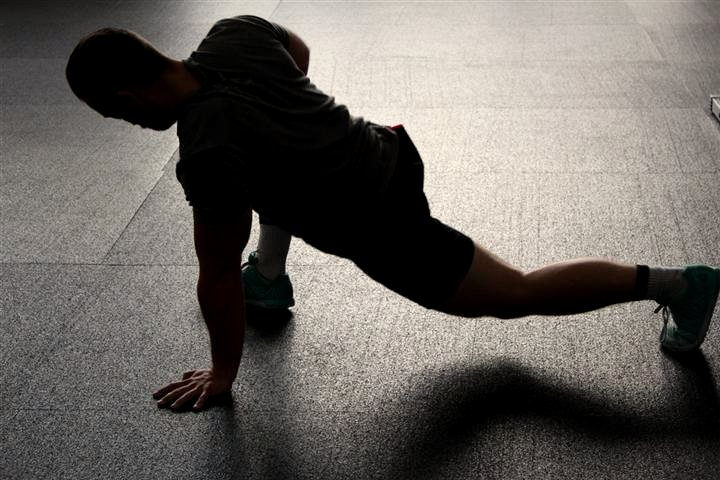
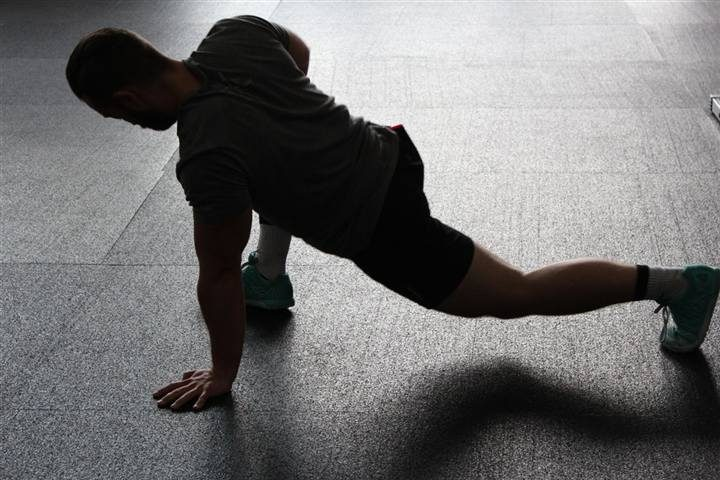
Web-Dateien aus capacitor übernommen (Fassung 2026-11-10-10): Tools-Fotos wieder im Originalton

diff --git a/index.html b/index.html
@@ -14,8 +14,8 @@
 <meta name="apple-mobile-web-app-status-bar-style" content="black-translucent">
 <meta name="apple-mobile-web-app-title" content="BLOC">
 <!-- ?v= gehört zu FASSUNG in sw.js: bei jeder neuen Fassung beide ändern -->
-<link rel="stylesheet" href="./app.css?v=2026-11-10-9">
-<link rel="stylesheet" href="./layout-new.css?v=2026-11-10-9">
+<link rel="stylesheet" href="./app.css?v=2026-11-10-10">
+<link rel="stylesheet" href="./layout-new.css?v=2026-11-10-10">
 </head>
 <body>
 <div class="glas-bg" aria-hidden="true"><i></i></div>
@@ -24,36 +24,36 @@
 <div id="overlayRoot"></div>
 <nav id="tabbar" class="tabbar hidden" aria-label="Navigation"></nav>
 
-<script src="./texte.js?v=2026-11-10-9"></script>
-<script src="./daten.js?v=2026-11-10-9"></script>
-<script src="./fotos.js?v=2026-11-10-9"></script>
-<script src="./faq.js?v=2026-11-10-9"></script>
-<script src="./js/00-native.js?v=2026-11-10-9"></script>
-<script src="./js/01-basis.js?v=2026-11-10-9"></script>
-<script src="./js/02-bibliothek.js?v=2026-11-10-9"></script>
-<script src="./js/03-router.js?v=2026-11-10-9"></script>
-<script src="./js/04-start.js?v=2026-11-10-9"></script>
-<script src="./js/05-suche.js?v=2026-11-10-9"></script>
-<script src="./js/06-timer-listen.js?v=2026-11-10-9"></script>
-<script src="./js/07-studio.js?v=2026-11-10-9"></script>
-<script src="./js/08-koerperkarte.js?v=2026-11-10-9"></script>
-<script src="./js/09-studio-karte.js?v=2026-11-10-9"></script>
-<script src="./js/10-gemeinsam.js?v=2026-11-10-9"></script>
-<script src="./js/11-bibliothek-seite.js?v=2026-11-10-9"></script>
-<script src="./js/11b-katalog.js?v=2026-11-10-9"></script>
-<script src="./js/12-uebung-statistik.js?v=2026-11-10-9"></script>
-<script src="./js/13-teilen-editor.js?v=2026-11-10-9"></script>
-<script src="./js/14-einfuehrung-sicherung.js?v=2026-11-10-9"></script>
-<script src="./js/16-lauf.js?v=2026-11-10-9"></script>
-<script src="./js/17-aufwaermen-einstellungen.js?v=2026-11-10-9"></script>
-<script src="./js/18-audio.js?v=2026-11-10-9"></script>
-<script src="./js/19-timer-motor.js?v=2026-11-10-9"></script>
-<script src="./js/19a-kalender.js?v=2026-11-10-9"></script>
-<script src="./js/20-walzen-start.js?v=2026-11-10-9"></script>
-<script src="./js/21-koerper.js?v=2026-11-10-9"></script>
-<script src="./js/22-satz-training.js?v=2026-11-10-9"></script>
-<script src="./js/23-protein.js?v=2026-11-10-9"></script>
-<script src="./js/24-fortschritt.js?v=2026-11-10-9"></script>
-<script src="./js/25-plan-assistent.js?v=2026-11-10-9"></script>
+<script src="./texte.js?v=2026-11-10-10"></script>
+<script src="./daten.js?v=2026-11-10-10"></script>
+<script src="./fotos.js?v=2026-11-10-10"></script>
+<script src="./faq.js?v=2026-11-10-10"></script>
+<script src="./js/00-native.js?v=2026-11-10-10"></script>
+<script src="./js/01-basis.js?v=2026-11-10-10"></script>
+<script src="./js/02-bibliothek.js?v=2026-11-10-10"></script>
+<script src="./js/03-router.js?v=2026-11-10-10"></script>
+<script src="./js/04-start.js?v=2026-11-10-10"></script>
+<script src="./js/05-suche.js?v=2026-11-10-10"></script>
+<script src="./js/06-timer-listen.js?v=2026-11-10-10"></script>
+<script src="./js/07-studio.js?v=2026-11-10-10"></script>
+<script src="./js/08-koerperkarte.js?v=2026-11-10-10"></script>
+<script src="./js/09-studio-karte.js?v=2026-11-10-10"></script>
+<script src="./js/10-gemeinsam.js?v=2026-11-10-10"></script>
+<script src="./js/11-bibliothek-seite.js?v=2026-11-10-10"></script>
+<script src="./js/11b-katalog.js?v=2026-11-10-10"></script>
+<script src="./js/12-uebung-statistik.js?v=2026-11-10-10"></script>
+<script src="./js/13-teilen-editor.js?v=2026-11-10-10"></script>
+<script src="./js/14-einfuehrung-sicherung.js?v=2026-11-10-10"></script>
+<script src="./js/16-lauf.js?v=2026-11-10-10"></script>
+<script src="./js/17-aufwaermen-einstellungen.js?v=2026-11-10-10"></script>
+<script src="./js/18-audio.js?v=2026-11-10-10"></script>
+<script src="./js/19-timer-motor.js?v=2026-11-10-10"></script>
+<script src="./js/19a-kalender.js?v=2026-11-10-10"></script>
+<script src="./js/20-walzen-start.js?v=2026-11-10-10"></script>
+<script src="./js/21-koerper.js?v=2026-11-10-10"></script>
+<script src="./js/22-satz-training.js?v=2026-11-10-10"></script>
+<script src="./js/23-protein.js?v=2026-11-10-10"></script>
+<script src="./js/24-fortschritt.js?v=2026-11-10-10"></script>
+<script src="./js/25-plan-assistent.js?v=2026-11-10-10"></script>
 </body>
 </html>

diff --git a/sw.js b/sw.js
@@ -7,7 +7,7 @@
  */
 
 /* Einzige Stelle für die Versionsnummer - die App fragt sie per postMessage ab (Einstellungen, ganz unten) */
-var FASSUNG = "2026-11-10-9";
+var FASSUNG = "2026-11-10-10";
 var NETZ_WARTEN = 2500;   // ms - so lange wartet der Start höchstens aufs Netz, wenn es eine gespeicherte Fassung gibt
 var SPEICHER = "sporttimer-" + FASSUNG;
 var GRUNDGERUEST = ["./", "./index.html", "./texte.js", "./quellen.html", "./daten.js", "./fotos.js", "./faq.js", "./js/00-native.js", "./js/01-basis.js", "./js/02-bibliothek.js", "./js/03-router.js", "./js/04-start.js", "./js/05-suche.js", "./js/06-timer-listen.js", "./js/07-studio.js", "./js/08-koerperkarte.js", "./js/09-studio-karte.js", "./js/10-gemeinsam.js", "./js/11-bibliothek-seite.js", "./js/11b-katalog.js", "./js/12-uebung-statistik.js", "./js/13-teilen-editor.js", "./js/14-einfuehrung-sicherung.js", "./js/16-lauf.js", "./js/17-aufwaermen-einstellungen.js", "./js/18-audio.js", "./js/19-timer-motor.js", "./js/19a-kalender.js", "./js/20-walzen-start.js", "./js/21-koerper.js", "./js/22-satz-training.js", "./js/23-protein.js", "./js/24-fortschritt.js", "./js/25-plan-assistent.js", "./img/neu-protein.jpg", "./app.css", "./layout-new.css", "./img/neu-workout.jpg", "./img/neu-mobility.jpg", "./img/neu-timer.jpg", "./img/neu-run.jpg", "./img/neu-builder.webp", "./img/neu-kopf.jpg", "./img/neu-kopf-hell.jpg", "./img/neu-kopf-hell-meer.jpg", "./img/neu-h-halle.jpg", "./img/neu-h-kettlebell.jpg", "./img/neu-h-dehnen.jpg", "./img/neu-d-kalender.jpg", "./img/neu-d-katalog.jpg", "./img/neu-run-bg.jpg", "./img/neu-hell-hintergrund.jpg", "./img/neu-p-freiluft-meer.jpg", "./img/neu-faq.jpg", "./img/neu-wissen.jpg", "./img/neu-h-hanteln-orange.jpg", "./img/neu-p-dehnung-silhouette.jpg", "./img/neu-freiluft.jpg", "./img/neu-p-freiluft-meer.jpg", "./img/neu-p-liegestuetz-strand.jpg", "./img/neu-p-liegestuetz-stadt.jpg", "./img/neu-p-studio-hantelreihe.jpg", "./img/neu-p-studio-gewichtsblock.jpg", "./img/neu-p-studio-halle.jpg", "./img/neu-p-frau-latzug.jpg", "./img/neu-p-timer-box.jpg", "./img/neu-p-frau-klimmzug.jpg", "./img/neu-p-frau-kniebeuge.jpg", "./img/neu-p-liegestuetz-feld.jpg", "./img/neu-p-mobility-ausfall.jpg", "./img/neu-p-mobility-sitz.jpg", "./img/neu-p-run-licht.jpg", "./img/neu-p-run-strasse.jpg", "./img/neu-p-run-sw.jpg", "./img/neu-p-freiluft-leiter.jpg", "./manifest.json", "./icon.png", "./icon-180.png", "./privacy.html", "./img/ort-fitnessstudio.jpg", "./img/ort-freiluft.jpg", "./img/start-halle.jpg", "./img/bereich-run.jpg", "./img/bereich-suche.jpg"];

diff --git a/js/05-suche.js b/js/05-suche.js
@@ -387,7 +387,7 @@ function faqHTML(){
 /* Aussehen „New“: Seite „Tools“ - die oberste Kachel steht groß (Standard: Workout-Builder), die übrigen versetzt in zwei Spalten, die letzte bei ungerader Zahl über die ganze Breite.
    Reihenfolge in settings.toolsReihe; Kachel lange drücken (0,5 s) und ziehen verschiebt sie. */
 /* Farbstärke je Foto auf Tools: aus der Sättigung der kräftigsten Bildanteile (90. Perzentil) gemessen, damit alle Kacheln nach dem Angleichen gleich kräftig wirken (Ziel 0,36) */
-var FOTO_SAT = { "img/neu-h-hanteln-orange.jpg":.78, "img/neu-wissen.jpg":1, "img/neu-p-dehnung-silhouette.jpg":1, "img/neu-p-frau-kniebeuge.jpg":.68, "img/neu-h-rack.jpg":.63, "img/neu-faq.jpg":.52, "img/neu-protein.jpg":.82, "img/bereich-run.jpg":.68, "img/neu-p-mobility-sitz.jpg":1, "img/neu-p-mobility-ausfall.jpg":1, "img/neu-h-brust-2.jpg":.78 };
+var FOTO_SAT = { "img/neu-h-hanteln-orange.jpg":.5, "img/neu-wissen.jpg":1, "img/neu-p-dehnung-silhouette.jpg":1, "img/neu-p-frau-kniebeuge.jpg":.68, "img/neu-h-rack.jpg":.63, "img/neu-faq.jpg":.52, "img/neu-protein.jpg":.82, "img/bereich-run.jpg":.68, "img/neu-p-mobility-sitz.jpg":1, "img/neu-p-mobility-ausfall.jpg":1, "img/neu-h-brust-2.jpg":.78 };
 var TOOLS_KEYS = ["katalog", "run", "plan", "warm", "intervall", "protein", "faq"];   // Standardreihenfolge: Protein Tracker und Wissensaustausch ganz unten
 function toolsReihe(){
   var r = [];

diff --git a/VERLAUF.md b/VERLAUF.md
@@ -3,9 +3,9 @@
 Kurze Notizen zu den **letzten Änderungen** (ab 2026-10-05), jeweils mit der Fassung. Ältere Einträge stehen im
 [Archiv](docs/VERLAUF-Archiv.md). Den **aktuellen** Stand beschreibt die [README](README.md).
 
-## 2026-11-10 · Neue Tools-Fotos im Stil der anderen (Fassung 2026-11-10-9)
+## 2026-11-10 · Tools-Fotos wieder im Originalton (Fassung 2026-11-10-10)
 
-- Die drei neuen Fotos (Timer, Trainingsplan, Wissensaustausch) sind farblich an die übrigen Tools-Kacheln angepasst: warmer, dunklerer Ton mit Vignette; das sehr helle Kachel-Bild für Wissensaustausch wurde auf mittleres Grau gepegelt, die Hanteln kräftiger gemacht, die Silhouette leicht gewärmt. `FOTO_SAT` für die Hanteln auf 0,78.
+- Die farbliche Angleichung der drei neuen Fotos (Timer, Trainingsplan, Wissensaustausch) aus 2026-11-10-9 ist auf Wunsch zurückgenommen: die Bilder sind wieder nur verkleinert, ohne Farbänderung; `FOTO_SAT` für die Hanteln wieder 0,5.
 
 ## 2026-11-10 · Neue Fotos auf Tools: Timer, Trainingsplan, Wissensaustausch (Fassung 2026-11-10-8)
 
